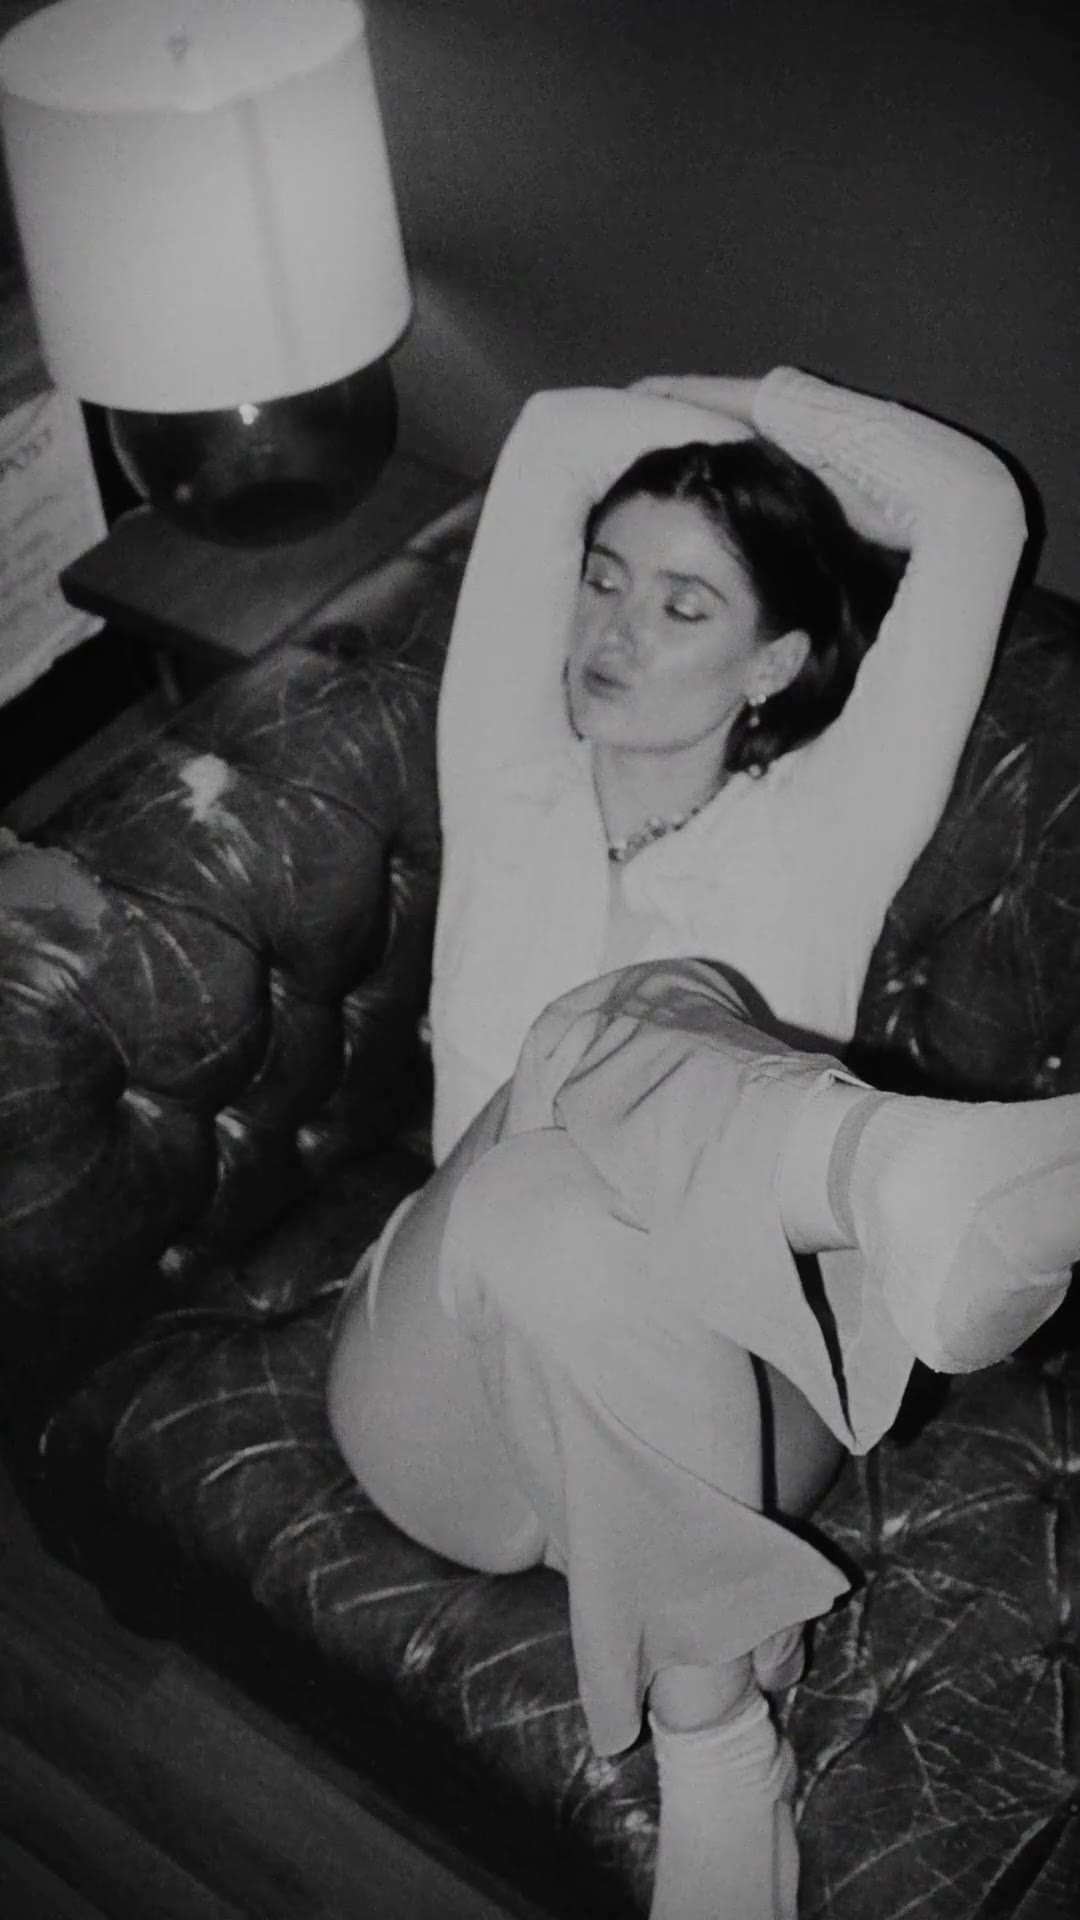
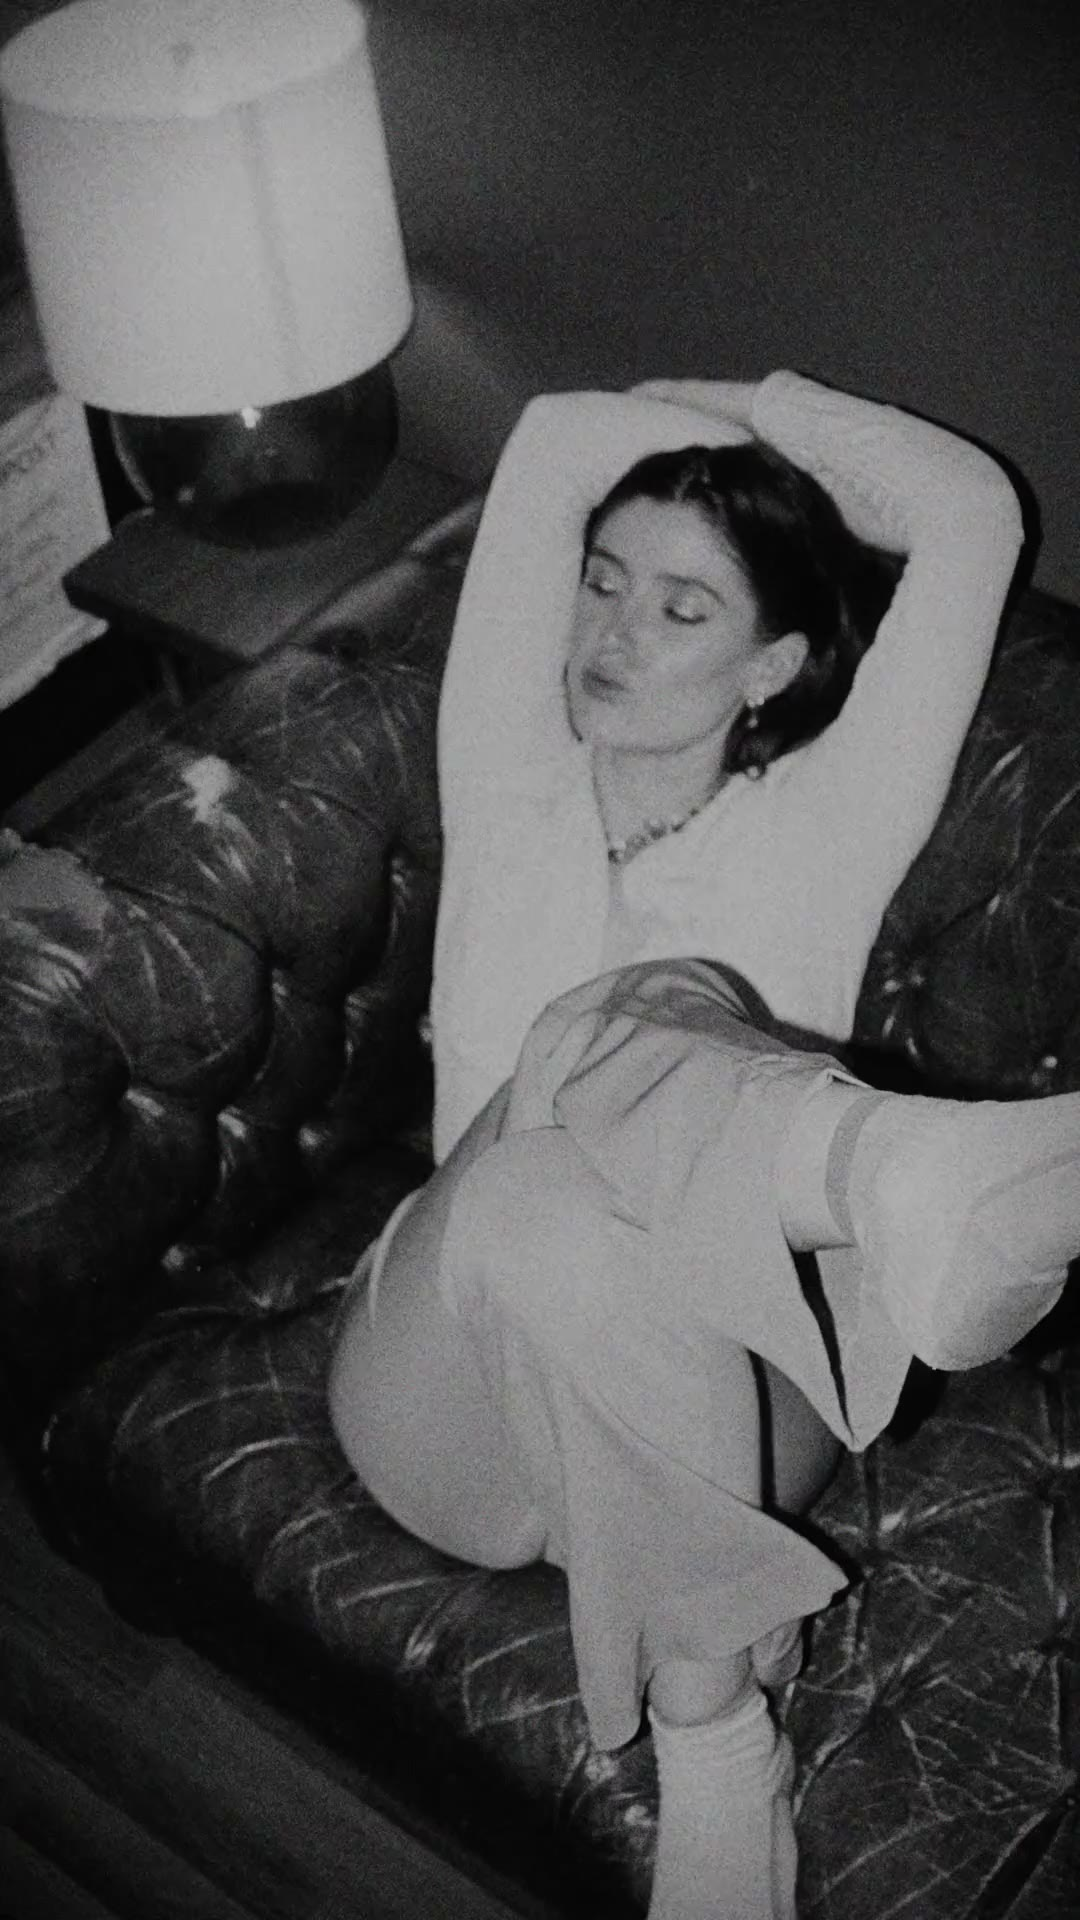
Fix background video swap on mobile load, add Reddit
Pick the video file inline while parsing instead of swapping src after
load, which restarted the video on phones. Poster is now the first frame
so poster to video is seamless.

Claude-Session: https://claude.ai/code/session_01UCk7s6bsjwtnjjHRbCxjaL

diff --git a/src/site.ts b/src/site.ts
@@ -56,6 +56,7 @@ export const site = {
     { label: "Instagram", href: "https://www.instagram.com/leon/" },
     { label: "Facebook", href: "https://www.facebook.com/itsleonleon" },
     { label: "YouTube", href: "https://www.youtube.com/channel/UC8hod44yQ-t8eQuXxeK5-Yw" },
+    { label: "Reddit", href: "https://www.reddit.com/r/itsleonleon/" },
     // TODO: TikTok
   ] as Link[],
 
